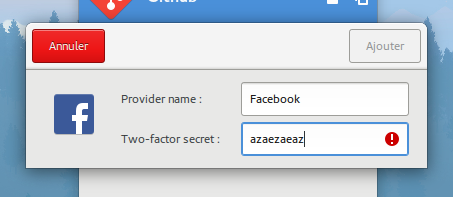
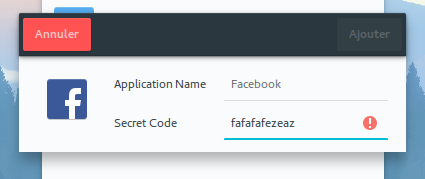
update screenshots

diff --git a/data/style.css b/data/style.css
@@ -18,6 +18,10 @@
     margin-bottom: 5px;
     margin-left: 65px;
 }
+
+.application-secret-code-select-mode{
+    margin-left: 105px;
+}
 .choose-popover GtkLabel {
     padding: 10px;
 }

diff --git a/TwoFactorAuth/widgets/listrow.py b/TwoFactorAuth/widgets/listrow.py
@@ -23,18 +23,18 @@ class ListBoxRow(Thread):
     code_box = None
     code_label = None
 
-    def __init__(self, parent, id, name, secret_code, logo):
+    def __init__(self, parent, uid, name, secret_code, logo):
         Thread.__init__(self)
         # Read default values
         cfg = SettingsReader()
         self.counter_max = cfg.read("refresh-time", "preferences")
         self.counter = self.counter_max
         self.parent = parent
-        self.id = id
+        self.id = uid
         self.name = name
         self.secret_code = Authenticator.fetch_secret_code(secret_code)
         if self.secret_code:
-            self.code = Code(secret_code)
+            self.code = Code(self.secret_code)
         else:
             self.code_generated = False
             logging.error("Could not read the secret code from, the keyring keys were reset manually")
@@ -68,6 +68,11 @@ class ListBoxRow(Thread):
     def get_code(row):
         code_box = ListBoxRow.get_code_box(row)
         return code_box.get_children()[0].get_text()
+
+    @staticmethod
+    def get_code_label(row):
+        code_box = ListBoxRow.get_code_box(row)
+        return code_box.get_children()[0]
 
     @staticmethod
     def get_checkbox(row):
@@ -255,7 +260,7 @@ class ListBoxRow(Thread):
                 # TODO : get colors from default theme
 
                 cairo.select_font_face("Lato, Roboto, Cantarell, Sans-Serif")
-                if self.counter < self.counter_max / 2:
+                if self.counter < self.counter_max / 3:
                     if not is_dark_mode:
                         cairo.set_source_rgb(0, 0, 0)
                     else:

diff --git a/TwoFactorAuth/models/authenticator.py b/TwoFactorAuth/models/authenticator.py
@@ -3,7 +3,6 @@ import logging
 from os import path, mknod, makedirs
 from gi.repository import GdkPixbuf, Gtk
 from gi.repository import GnomeKeyring as GK
-from TwoFactorAuth.models.settings import SettingsReader
 from hashlib import md5
 
 class Authenticator:
@@ -25,7 +24,6 @@ class Authenticator:
             mknod(database_file)
             logging.debug("Creating database file %s " % database_file)
         # Connect to database
-        self.cfg = SettingsReader()
         self.conn = sqlite3.connect(database_file)
         if not self.is_table_exists():
             logging.debug("SQL: Table 'applications' does not exists, creating it now...")
@@ -34,9 +32,8 @@ class Authenticator:
 
     @staticmethod
     def fetch_secret_code(secret_code):
-        encrypted_secret = md5(secret_code.encode('utf-8')).hexdigest()
         attr = GK.Attribute.list_new()
-        GK.Attribute.list_append_string(attr, 'id', encrypted_secret)
+        GK.Attribute.list_append_string(attr, 'id', secret_code)
         result, value = GK.find_items_sync(GK.ItemType.GENERIC_SECRET, attr)
         if result == GK.Result.OK:
             return value[0].secret
@@ -57,7 +54,6 @@ class Authenticator:
         try:
             GK.create_sync("TwoFactorAuth", None)
             attr = GK.Attribute.list_new()
-            user_password = self.cfg.read("password", "login")
             GK.Attribute.list_append_string(attr, 'id', encrypted_secret)
             GK.Attribute.list_append_string(attr, 'secret_code', secret_code)
             GK.item_create_sync("TwoFactorAuth", GK.ItemType.GENERIC_SECRET, repr(encrypted_secret), attr,

diff --git a/TwoFactorAuth/widgets/window.py b/TwoFactorAuth/widgets/window.py
@@ -112,7 +112,7 @@ class Window(Gtk.ApplicationWindow):
         box = Gtk.Box(orientation=Gtk.Orientation.HORIZONTAL)
         box.set_margin_left(60)
 
-        self.search_entry.set_width_chars(22)
+        self.search_entry.set_width_chars(28)
         self.search_entry.connect("changed", self.filter_applications)
         self.search_entry.set_icon_from_icon_name(Gtk.EntryIconPosition.PRIMARY, "system-search-symbolic")
 
@@ -308,10 +308,15 @@ class Window(Gtk.ApplicationWindow):
 
         for row in self.list_box.get_children():
             checkbox = ListBoxRow.get_checkbox(row)
+            code_label = ListBoxRow.get_code_label(row)
             visible = checkbox.get_visible()
             selected = checkbox.get_active()
             if not is_visible:
                 self.select_application(checkbox)
+                code_label.get_style_context().add_class("application-secret-code-select-mode")
+            else:
+                code_label.get_style_context().remove_class("application-secret-code-select-mode")
+
             checkbox.set_visible(not visible)
             checkbox.set_no_show_all(visible)
 
@@ -410,6 +415,7 @@ class Window(Gtk.ApplicationWindow):
             :param secret_code: application secret code
             :param image: application image path or icon name
         """
+        secret_code = md5(secret_code.encode('utf-8')).hexdigest()
         row = ListBoxRow(self, uid, name, secret_code, image)
         self.list_box.add(row.get_list_row())
         self.list_box.show_all()

diff --git a/TwoFactorAuth/application.py b/TwoFactorAuth/application.py
@@ -30,7 +30,7 @@ class Application(Gtk.Application):
         GLib.set_prgname(self.package)
         result = GK.unlock_sync("TwoFactorAuth", None)
         if result == GK.Result.CANCELLED:
-            self.on_quit()
+            self.quit()
 
         self.cfg = SettingsReader()
         if self.cfg.read("state", "login"):
